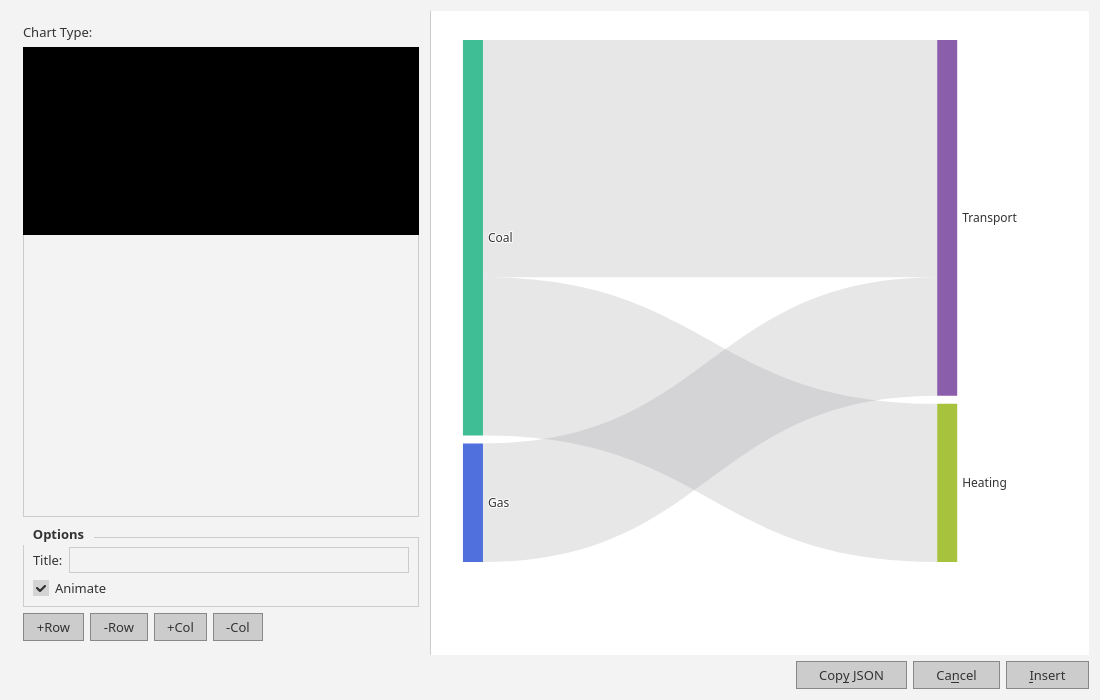
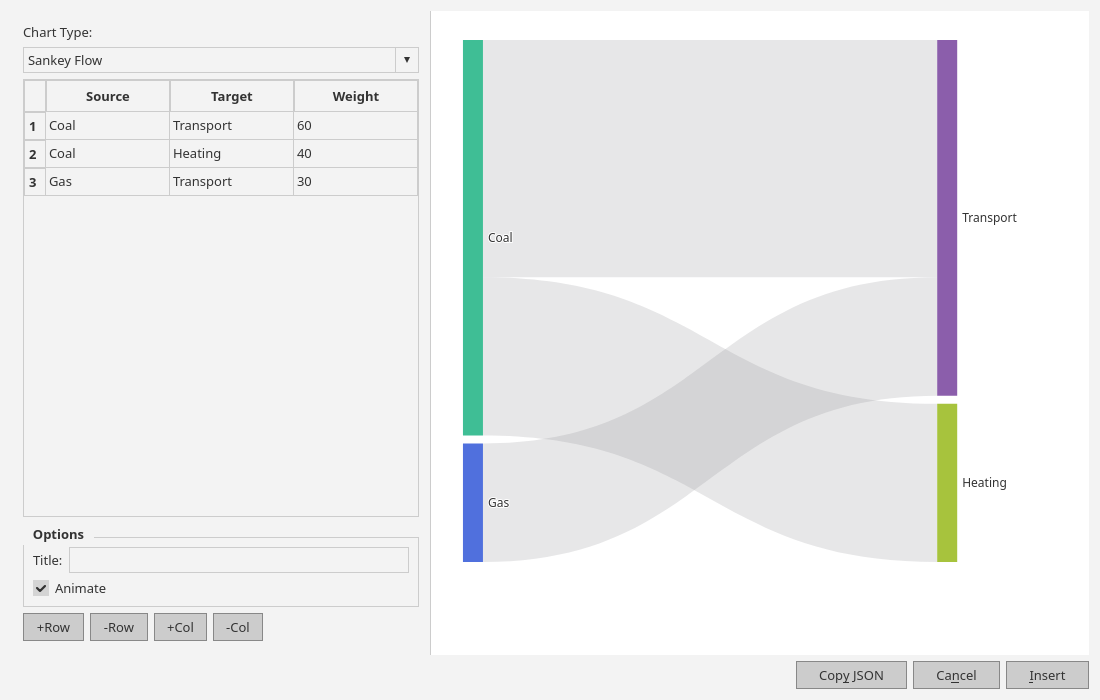
fix: mermaid tests, screenshots, and pie chart is default chart upon open

Changed region(s): [[0.0, 0.06, 0.4018, 0.36]]

diff --git a/src/MermaidDialog.cpp b/src/MermaidDialog.cpp
@@ -125,6 +125,16 @@ QString MermaidDialog::mermaidPreviewHtml(const QString &escaped, const QString 
     ).arg(escaped, theme, bgColor);
 }
 
+QString MermaidDialog::emptyPreviewHtml(const QString &bgColor)
+{
+    return QString(
+        "<!DOCTYPE html><html><head><meta charset=\"utf-8\">"
+        "<style>body{margin:0;display:flex;justify-content:center;align-items:center;min-height:100vh;font-family:sans-serif;background-color:%1;}"
+        ".hint{color:palette(mid);}</style>"
+        "</head><body><span class=\"hint\"></span></body></html>"
+    ).arg(bgColor);
+}
+
 QString MermaidDialog::mermaidBlock() const
 {
     QString diagram = buildDiagram();
@@ -274,6 +284,10 @@ void MermaidDialog::schedulePreviewUpdate()
 void MermaidDialog::updatePreview()
 {
     QString diagram = buildDiagram();
+    if (diagram.trimmed().isEmpty()) {
+        m_preview->setHtml(emptyPreviewHtml(m_bgColor));
+        return;
+    }
     QString escaped = diagram;
     escaped.replace("&", "&amp;").replace("<", "&lt;").replace(">", "&gt;");
     m_preview->setHtml(mermaidPreviewHtml(escaped, m_mermaidTheme, m_bgColor));

diff --git a/tests/test_mermaid_dialog.cpp b/tests/test_mermaid_dialog.cpp
@@ -273,3 +273,24 @@ TEST_F(MermaidDialogTest, AllChartTypesProduceOutput)
         EXPECT_TRUE(block.contains("```mermaid")) << "Chart type index " << i << " missing mermaid fence";
     }
 }
+
+TEST_F(MermaidDialogTest, DefaultChartTypeIsPie)
+{
+    // Tools > Mermaid Diagrams opens a fresh dialog; it must land on the first
+    // helper (Pie Chart), not the raw-source fallback panel.
+    MermaidDialog dlg{""};
+    auto *c = chartTypeCombo(dlg);
+    ASSERT_NE(c, nullptr);
+    EXPECT_EQ(c->currentIndex(), 0);
+}
+
+TEST_F(MermaidDialogTest, EmptyDiagramPreviewShowsNoMermaidError)
+{
+    // An empty diagram (e.g. git graph with no repo loaded) must not drive
+    // mermaid.run() on an empty div; mermaid rejects there and the error
+    // handler stringifies the rejection object to "[object Object]".
+    QString html = MermaidDialog::emptyPreviewHtml();
+    EXPECT_FALSE(html.contains("mermaid"));
+    EXPECT_FALSE(html.contains("error"));
+}
+

diff --git a/src/MainWindow.cpp b/src/MainWindow.cpp
@@ -1078,7 +1078,7 @@ void MainWindow::setupMenuBar()
     QAction *mermaidAction = toolsMenu->addAction("&Mermaid Diagrams...");
     mermaidAction->setShortcut(QKeySequence(Qt::CTRL | Qt::Key_M));
     connect(mermaidAction, &QAction::triggered, this, [this]() {
-        MermaidDialog dlg(QString(), m_cssLoader->themeCss(), this);
+        MermaidDialog dlg(m_cssLoader->themeCss(), this);
         if (dlg.exec() == QDialog::Accepted) {
             QString block = dlg.mermaidBlock();
             Editor *ed = editor();

diff --git a/src/MermaidDialog.h b/src/MermaidDialog.h
@@ -57,6 +57,7 @@ public:
 
     static QString mermaidPreviewHtml(const QString &escaped, const QString &theme,
                                       const QString &bgColor = QString());
+    static QString emptyPreviewHtml(const QString &bgColor = QString());
 
 private:
     void setupUi();

diff --git a/docs/gotchas.md b/docs/gotchas.md
@@ -250,3 +250,25 @@ Consequences that look like bugs but are intended:
   (until the doc is saved), or ask each time. An unsaved document with
   "next to the document" escalates to asking; if no folder is chosen the
   `<img>` tags are stripped rather than leaking `docximg://` placeholders.
+
+## Empty mermaid diagrams in the chart-helper dialog
+
+Feeding mermaid an **empty** `.mermaid` div makes `mermaid.run()` reject, and the
+error-handler in `MermaidDialog::mermaidPreviewHtml` stringifies the rejection
+value — an object — as `[object Object]`. So "Git Graph selected but no repo
+loaded" (or any helper with no data yet) shows a red `[object Object]` box in
+the live preview if the empty string is passed straight to mermaid.
+
+Scriba guards this in `MermaidDialog::updatePreview`: when `buildDiagram()` is
+empty/whitespace it renders `MermaidDialog::emptyPreviewHtml()` (a blank pane)
+instead of invoking mermaid at all. Do not "fix" the red box by tweaking the JS
+error handler alone — the real problem is calling `mermaid.run` on empty input;
+keep the empty-path check.
+
+Related: `MainWindow.cpp` opens the dialog via the theme-only constructor
+(`MermaidDialog(themeCss, parent)`). Passing an *empty* `existingDiagram` into
+the prefill constructor is **not** the same thing — it routes through
+`prefillFromSource("")`, which fails to parse and forces the raw-source
+fallback panel (combo index 13, "Diagram Source") instead of the default first
+helper (Pie). Use the theme-only ctor for a fresh dialog and the prefill ctor
+only when editing an existing diagram.
